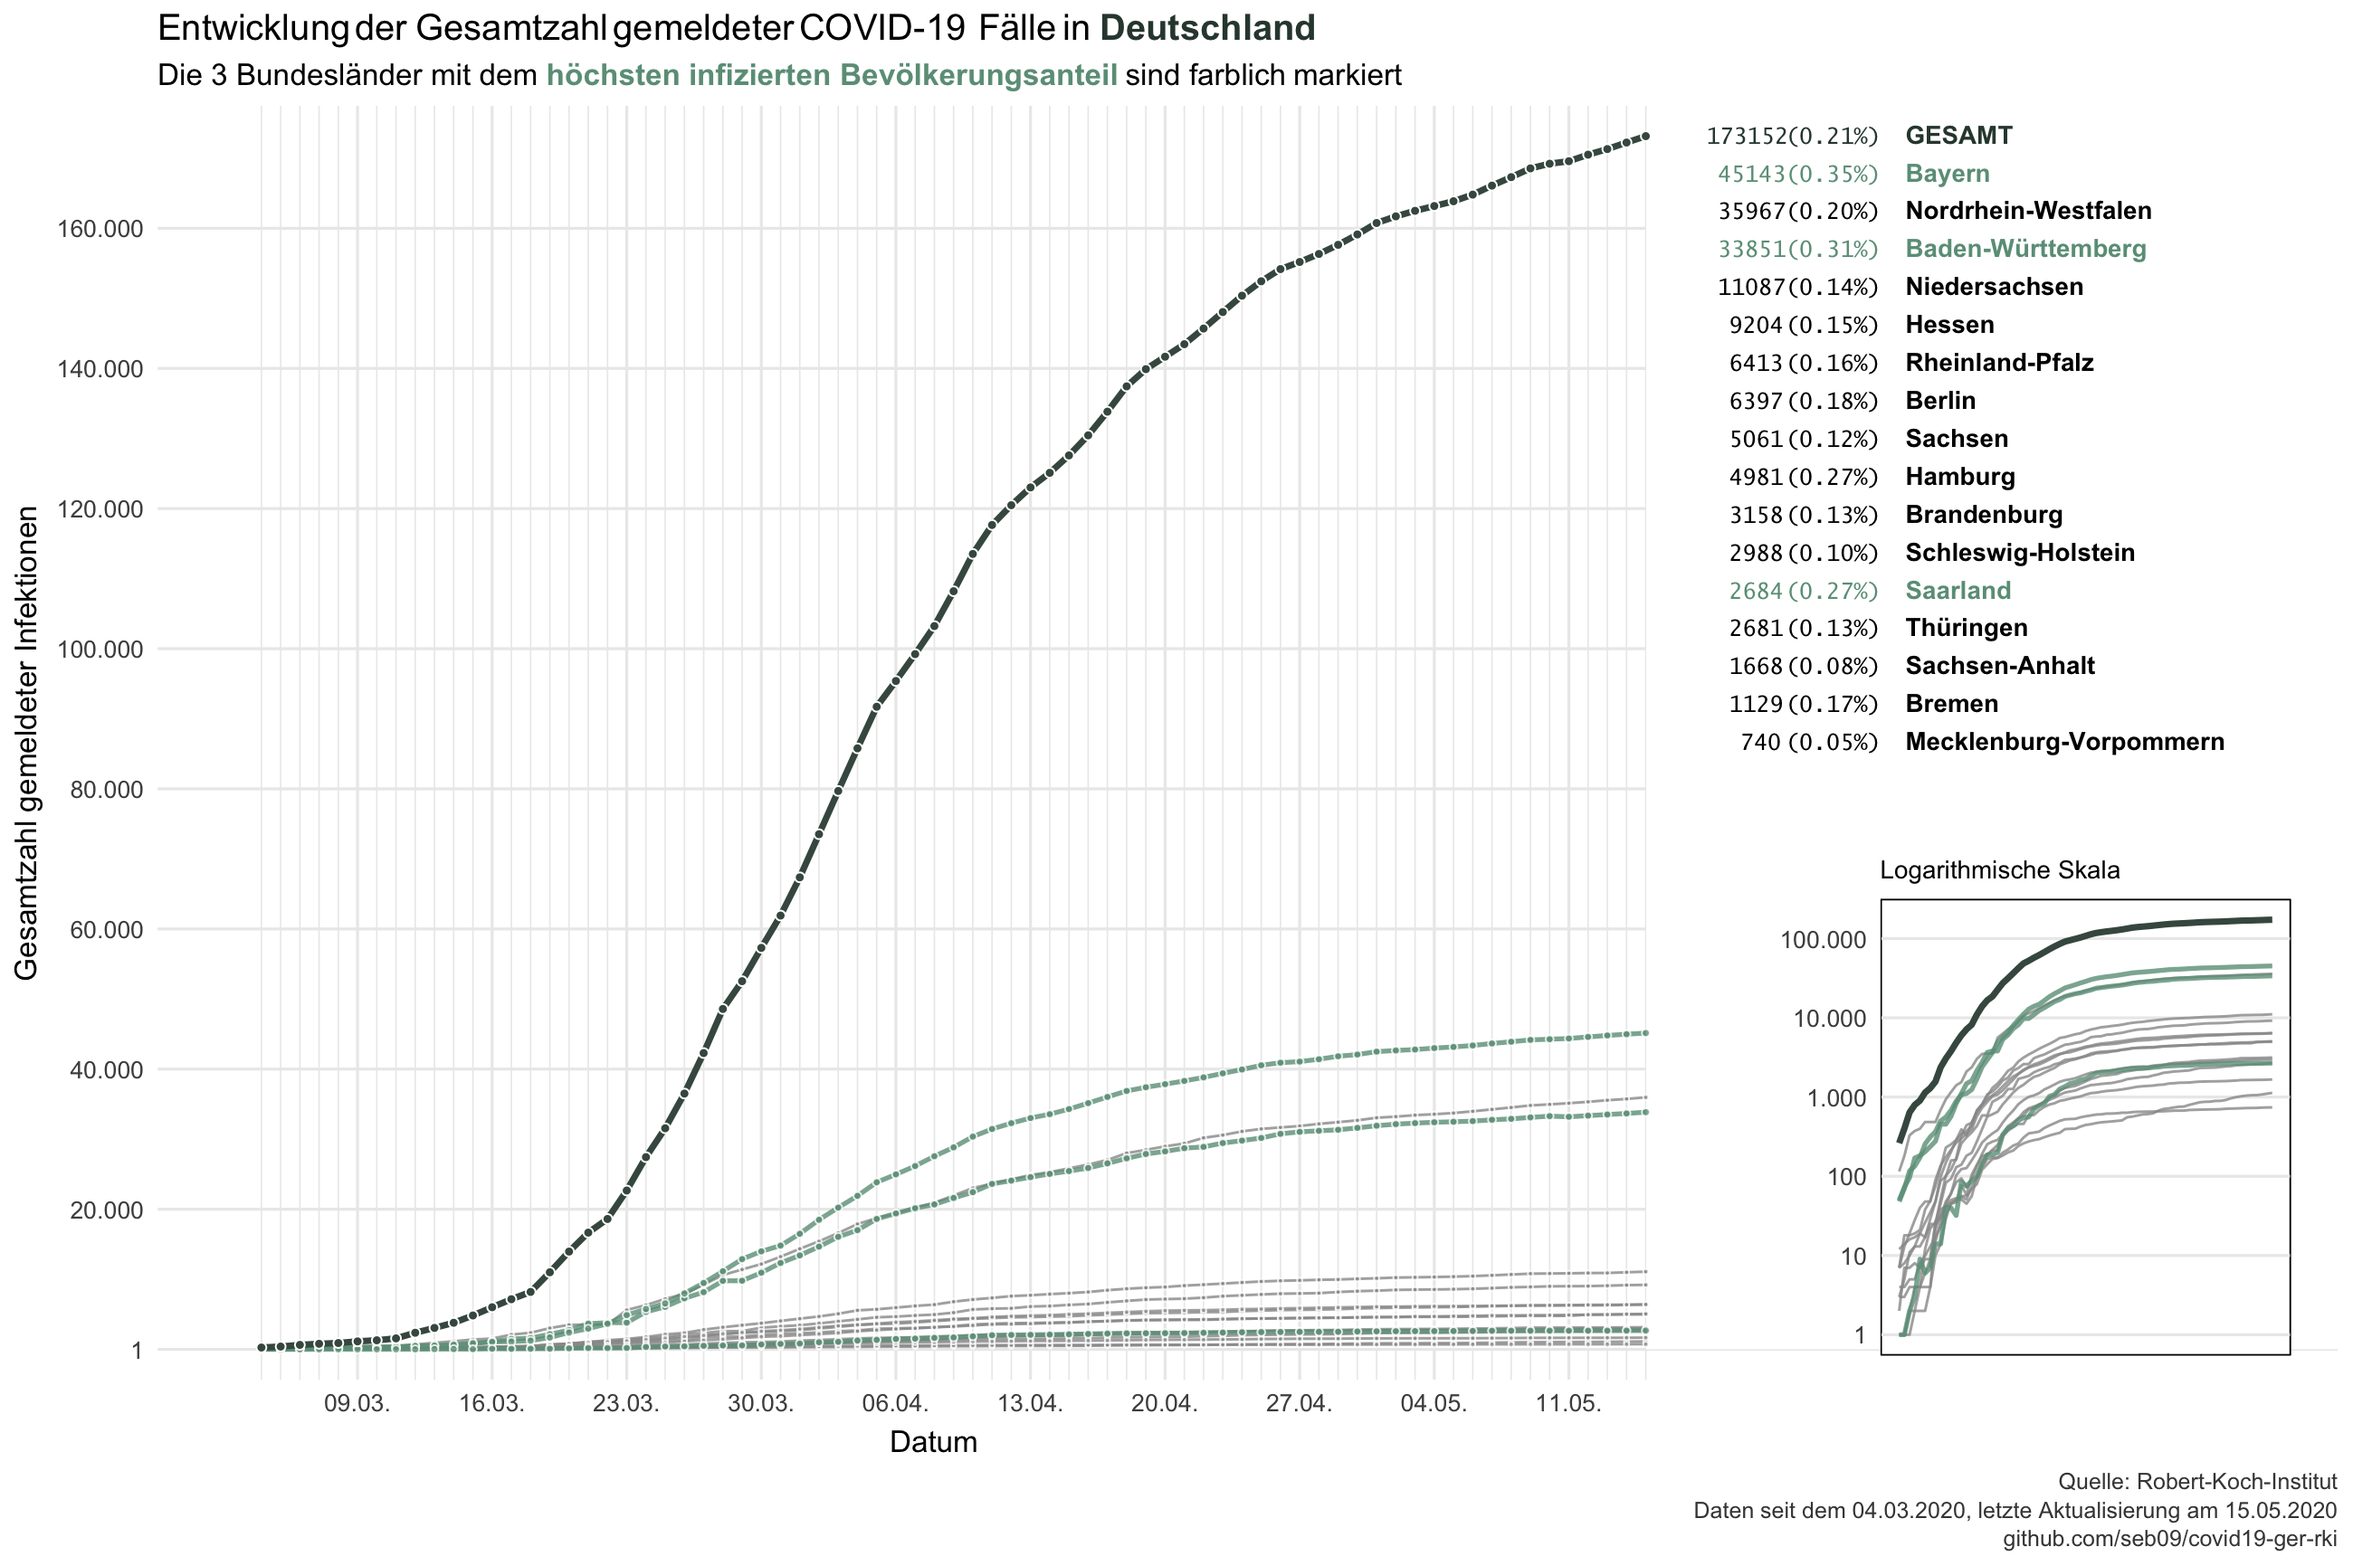
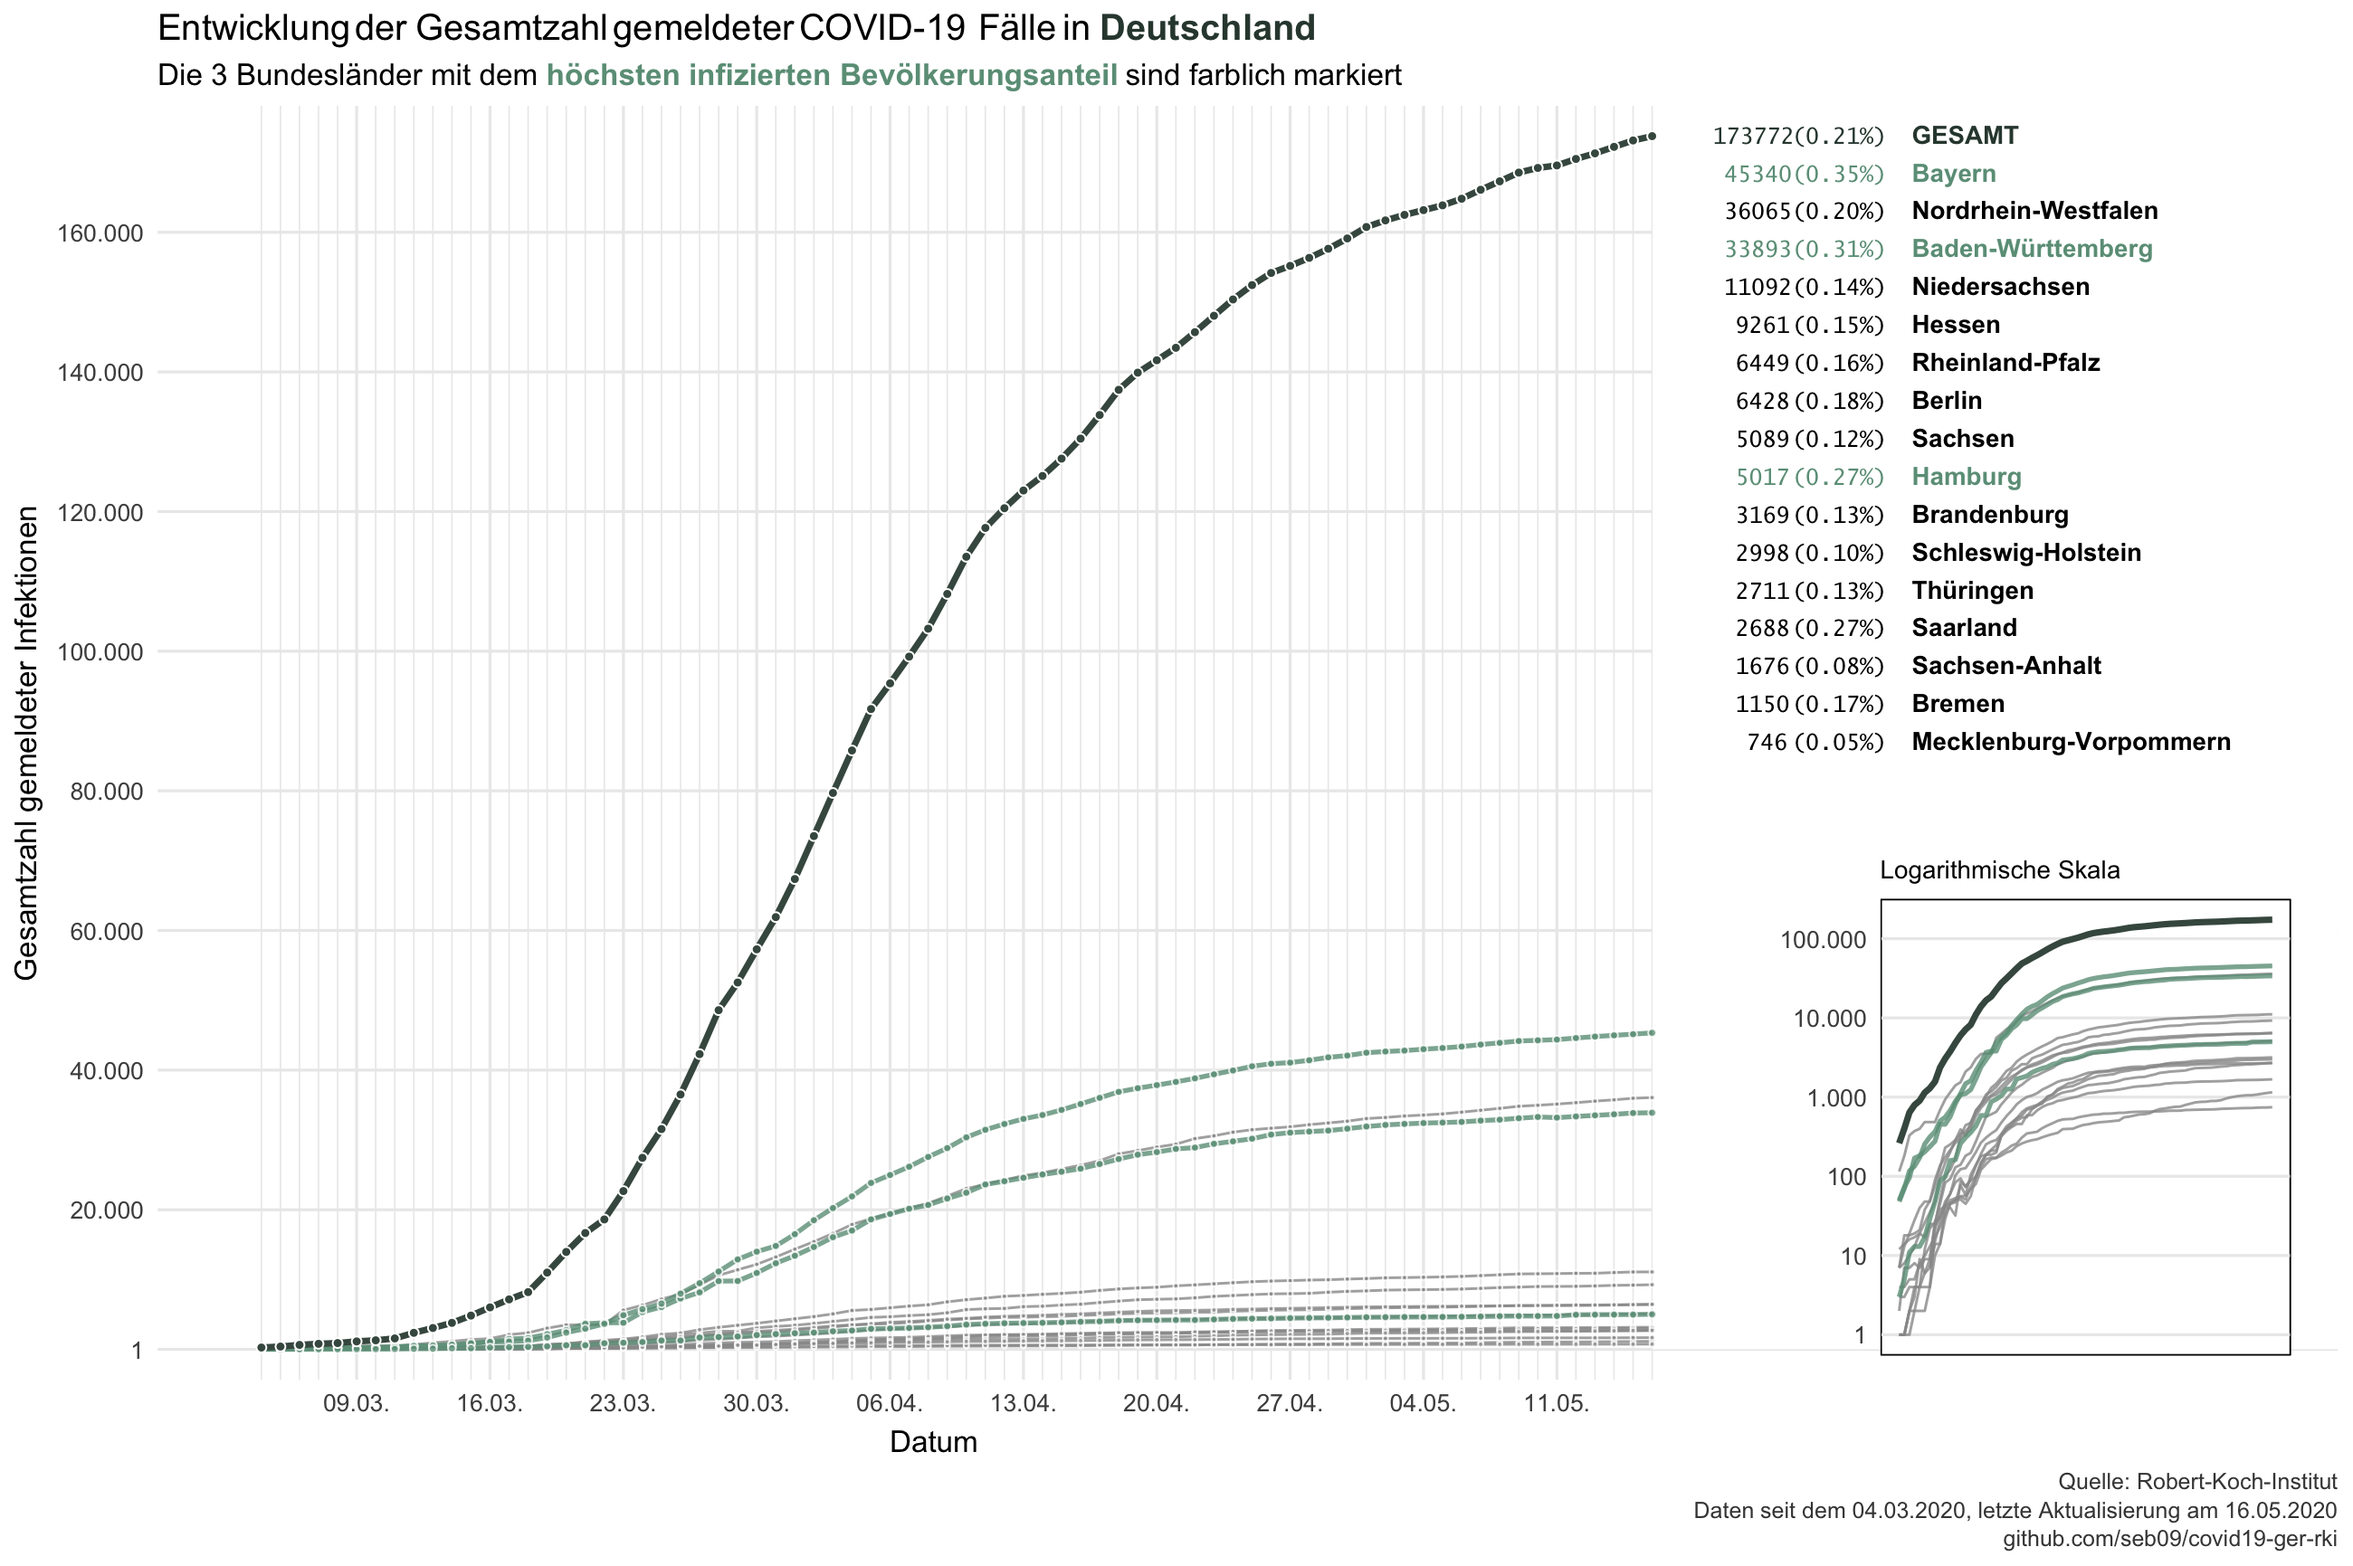
daily update 2020-05-16

diff --git a/README.md b/README.md
@@ -1,6 +1,6 @@
 Data from the Robert-Koch-Institut on COVID-19 in Germany
 ================
-Last update: 2020-05-15
+Last update: 2020-05-16
 
 This repository contains data on reported COVID-19 cases in Germany and
 its federal states that is published daily by the Robert-Koch-Institut
@@ -14,26 +14,26 @@ corona_rki %>%
   print(n = 16)
 ```
 
-    ## # A tibble: 1,162 x 6
+    ## # A tibble: 1,178 x 6
     ##    Datum      Bundesland      Fallzahl Todeszahl Fallzahl_neu Todeszahl_neu
     ##    <date>     <chr>              <dbl>     <dbl>        <dbl>         <dbl>
-    ##  1 2020-05-15 Baden-Württemb…    33851      1628          181            20
-    ##  2 2020-05-15 Bayern             45143      2260          163            31
-    ##  3 2020-05-15 Berlin              6397       177           55             4
-    ##  4 2020-05-15 Brandenburg         3158       148           23            10
-    ##  5 2020-05-15 Bremen              1129        37           25             0
-    ##  6 2020-05-15 Hamburg             4981       228            5             0
-    ##  7 2020-05-15 Hessen              9204       429           35             6
-    ##  8 2020-05-15 Mecklenburg-Vo…      740        20            1             0
-    ##  9 2020-05-15 Niedersachsen      11087       534           84            10
-    ## 10 2020-05-15 Nordrhein-West…    35967      1493          226            10
-    ## 11 2020-05-15 Rheinland-Pfalz     6413       213           31             1
-    ## 12 2020-05-15 Saarland            2684       147            7             2
-    ## 13 2020-05-15 Sachsen             5061       195           30             0
-    ## 14 2020-05-15 Sachsen-Anhalt      1668        54           12             2
-    ## 15 2020-05-15 Schleswig-Hols…     2988       126            6             1
-    ## 16 2020-05-15 Thüringen           2681       135           29             4
-    ## # … with 1,146 more rows
+    ##  1 2020-05-16 Baden-Württemb…    33893      1644           42            16
+    ##  2 2020-05-16 Bayern             45340      2273          197            13
+    ##  3 2020-05-16 Berlin              6428       181           31             4
+    ##  4 2020-05-16 Brandenburg         3169       149           11             1
+    ##  5 2020-05-16 Bremen              1150        37           21             0
+    ##  6 2020-05-16 Hamburg             5017       231           36             3
+    ##  7 2020-05-16 Hessen              9261       432           57             3
+    ##  8 2020-05-16 Mecklenburg-Vo…      746        20            6             0
+    ##  9 2020-05-16 Niedersachsen      11092       535            5             1
+    ## 10 2020-05-16 Nordrhein-West…    36065      1500           98             7
+    ## 11 2020-05-16 Rheinland-Pfalz     6449       216           36             3
+    ## 12 2020-05-16 Saarland            2688       149            4             2
+    ## 13 2020-05-16 Sachsen             5089       197           28             2
+    ## 14 2020-05-16 Sachsen-Anhalt      1676        54            8             0
+    ## 15 2020-05-16 Schleswig-Hols…     2998       126           10             0
+    ## 16 2020-05-16 Thüringen           2711       137           30             2
+    ## # … with 1,162 more rows
 
 Data is downloaded each day at 11am from the [website of the
 RKI](https://www.rki.de/DE/Content/InfAZ/N/Neuartiges_Coronavirus/Fallzahlen.html)
